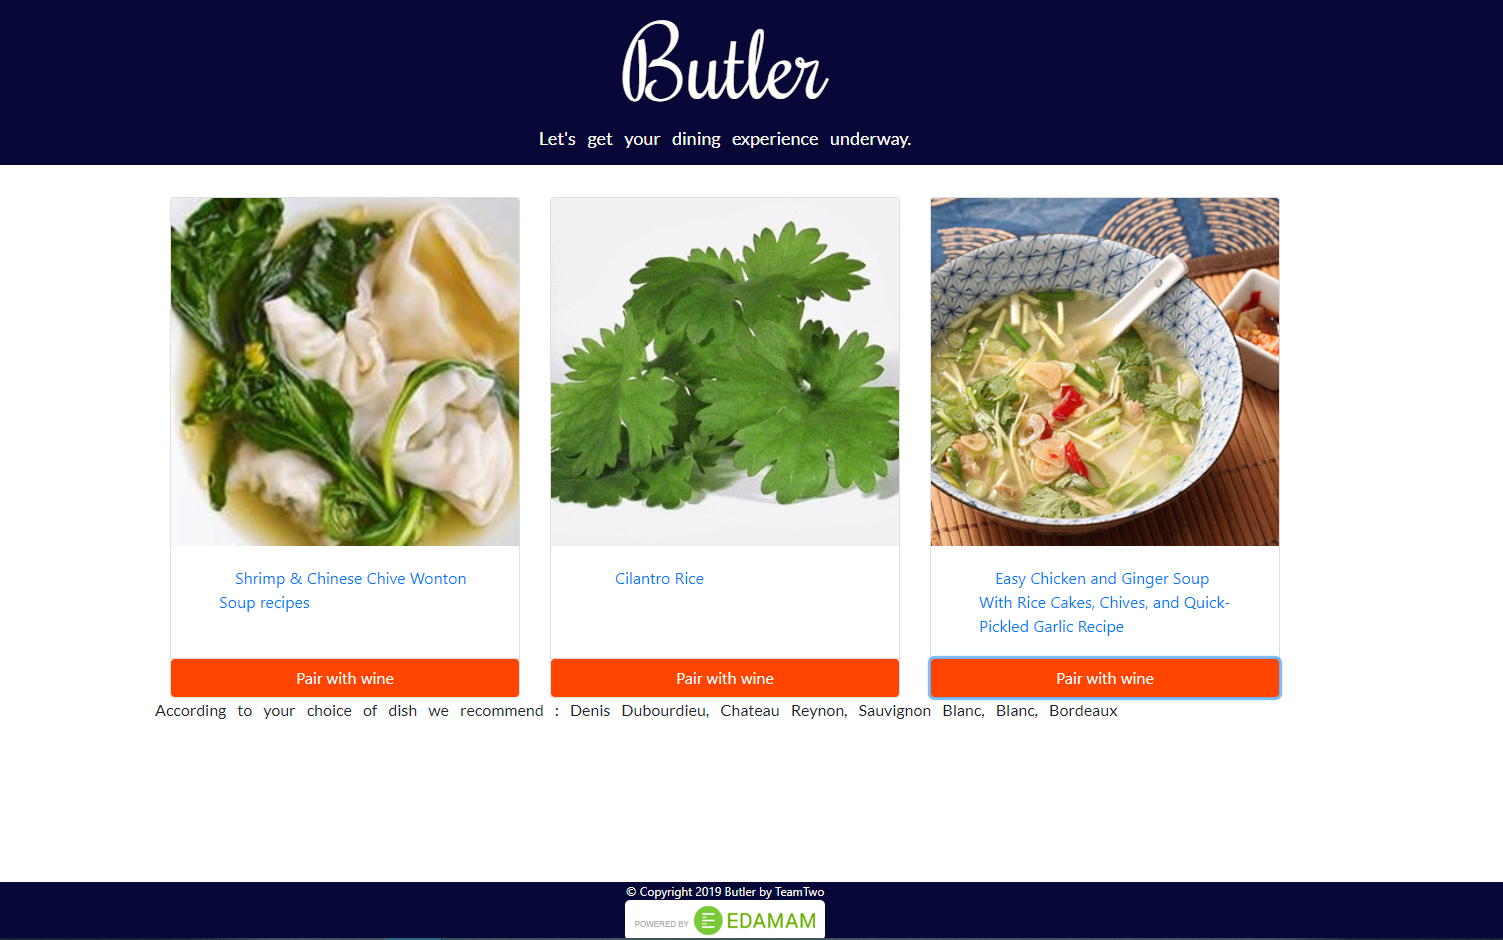
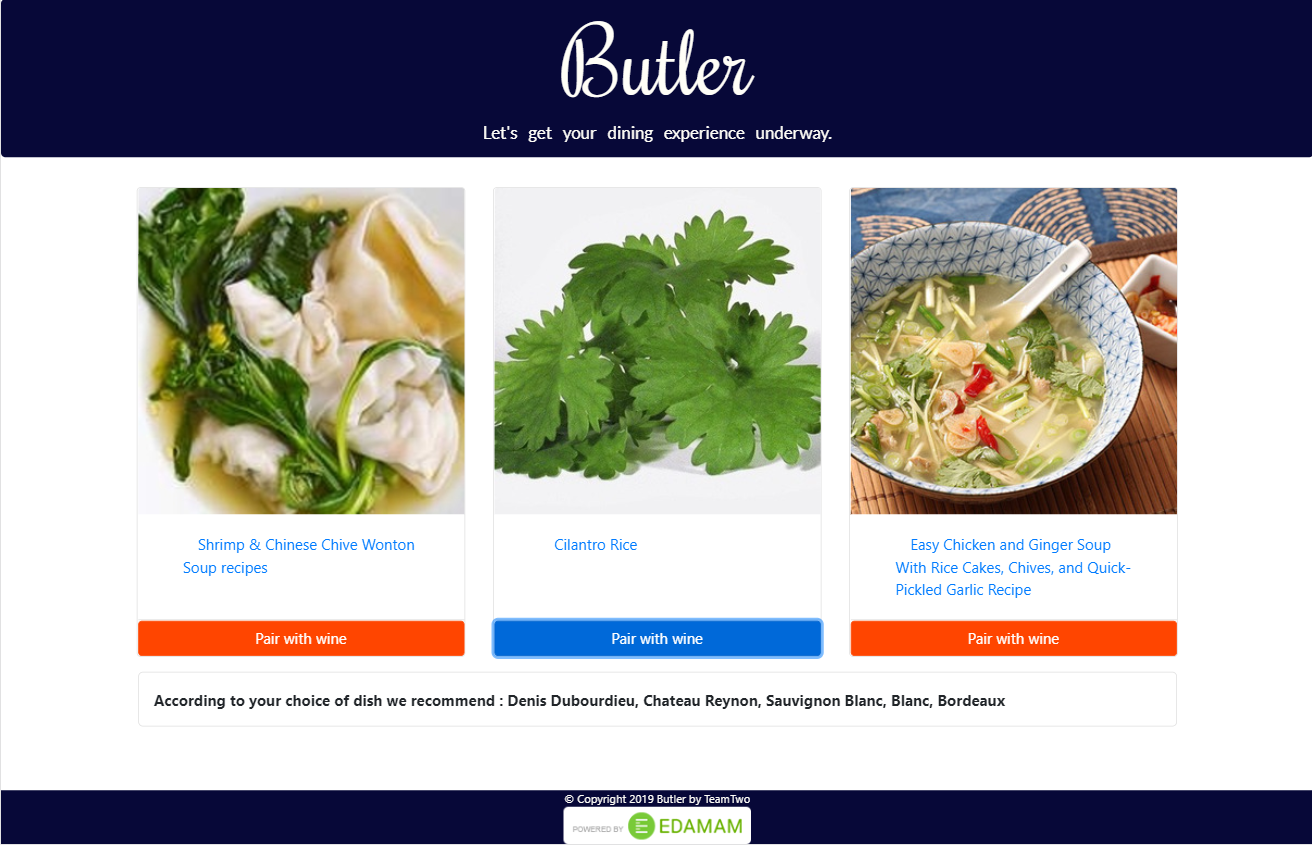
read.me modified

diff --git a/index.html b/index.html
@@ -80,7 +80,9 @@
     <footer class="footer">
 
         &copy; Copyright 2019 Butler by TeamTwo
-        <div id="edamam-badge" data-color="white"> </div>
+        <br><br>
+        Powered by
+        <div id="apis"> <img src="Assets/images/edamam.png" alt="Edamam API" style="width:100px;"><img src="Assets/images/globalWineScore.png" alt="Global Wine Score API" style="width:55px; padding-left:20px;"></div>
     </footer>
 
     <!-- JQuery -->

diff --git a/Assets/css/styles.css b/Assets/css/styles.css
@@ -32,7 +32,6 @@ h2{
 
 .card-img-top{
     width:100%;
-    
 }
 .card{
     max-width: 300%;
